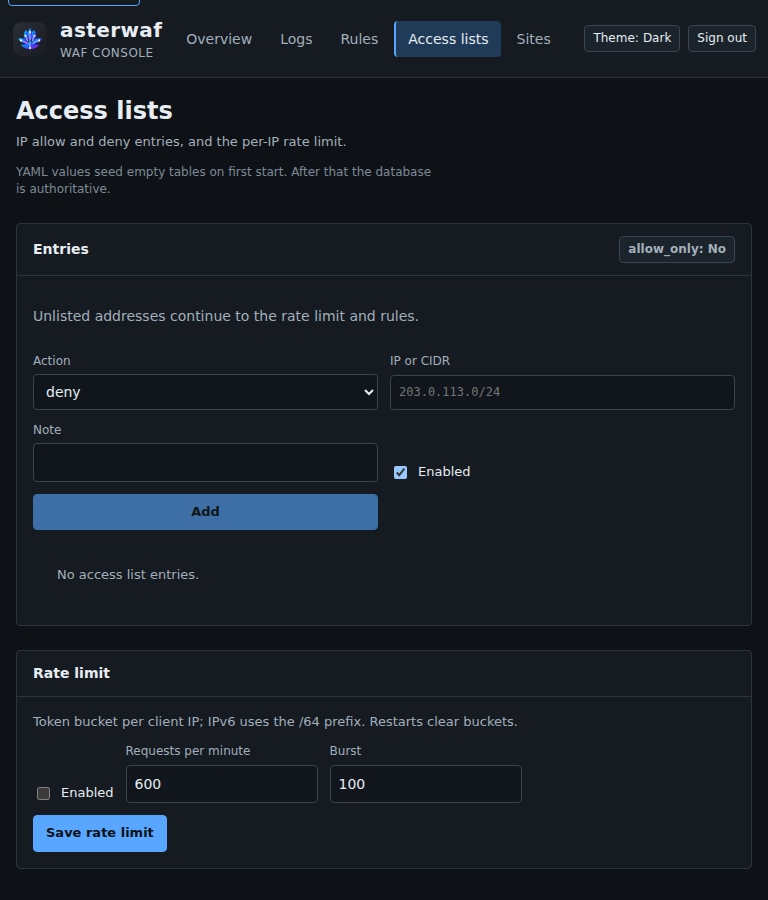
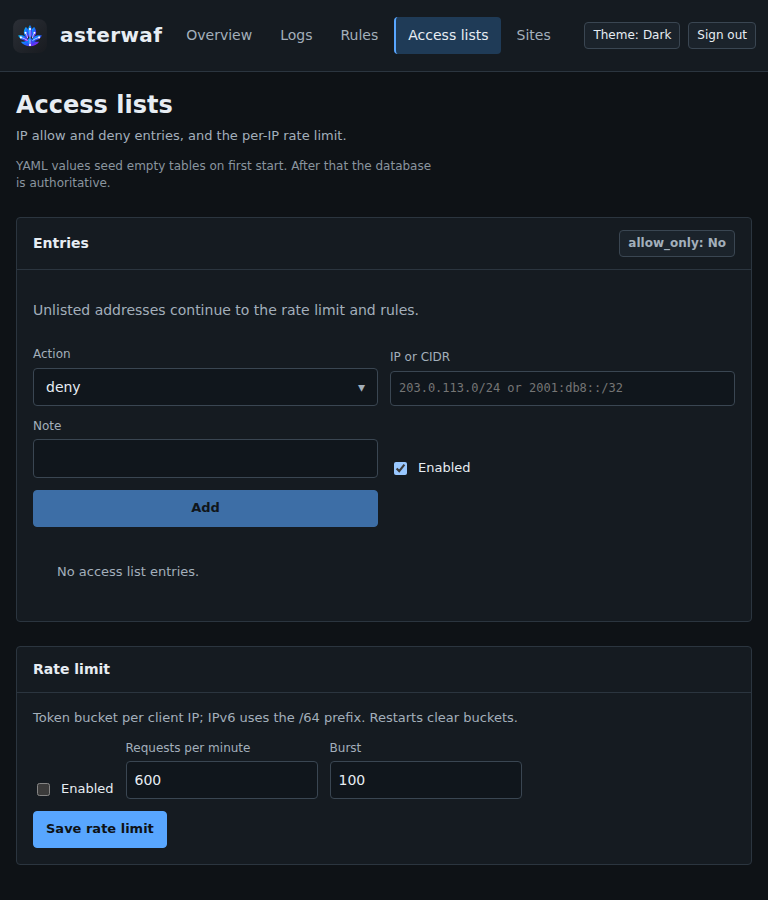
feat: verified console with functional harness and docs
docs/verification.md records 47/47 automated checks: auth, throttling with
field-ambiguous errors, session lifecycle, cross-origin rejection, API
shapes, overview totals against asterwaf stats (exact for 15m/1h/24h,
one-row tolerance on the rollup-approximate 7d), proxy enforcement and
shadow recording, rate limiting with Retry-After, access-list effects
without restart, rule toggles and rollback, site-mode persistence, upstream
failure and recovery, the dropped-log counter under a forced writer stall,
and seed isolation. The screenshot loop now also fails on failed network
requests; screenshots, the design-system doc and progress are refreshed.

diff --git a/internal/api/rules.go b/internal/api/rules.go
@@ -44,9 +44,9 @@ type U规则测试请求 struct {
 }
 
 type U规则测试响应 struct {
-	U命中    bool           `json:"matched"`
-	U规则ID  string         `json:"rule_id,omitempty"`
-	U类别    string         `json:"category,omitempty"`
+	U命中   bool       `json:"matched"`
+	U规则ID string     `json:"rule_id,omitempty"`
+	U类别   string     `json:"category,omitempty"`
 	U匹配列表 []规则引擎.U匹配 `json:"matches,omitempty"`
 }
 

diff --git a/docs/verification.md b/docs/verification.md
@@ -1,0 +1,75 @@
+# Functional verification
+
+Recorded from the automated harness run (`/tmp/verify.py`, throwaway instance on
+127.0.0.1:18180/18190, seeded `data/asterwaf-seed.db`, three dummy upstreams on
+18601-18603). Latest run: **47/47 checks passed**. Re-run by booting the same
+layout and replaying the steps below.
+
+## Auth and sessions
+
+| Check | Result | Notes |
+| --- | --- | --- |
+| Login with correct credentials succeeds | PASS | `POST /api/login` 200, cookie set |
+| Wrong password rejected | PASS | 401, message `invalid username or password` |
+| Failed login stays field-ambiguous | PASS | identical message for unknown user and wrong password |
+| Sixth bad login attempt throttled | PASS | per-IP window allows 5; 6th returns 429 with `Retry-After` |
+| Session survives reload | PASS | cookie valid across requests |
+| Logout clears the session | PASS | `/api/me` returns 401 afterwards |
+| Cross-origin write rejected | PASS | `POST /api/status` with `Origin: https://evil.test` → 403 |
+
+## API shapes
+
+| Check | Result | Notes |
+| --- | --- | --- |
+| `/api/me`, `/api/status`, `/api/stats/overview`, `/api/logs`, `/api/rules`, `/api/rules/versions`, `/api/access-lists`, `/api/rate-limit`, `/api/sites` | PASS | required keys present, all 200 |
+
+## Overview correctness
+
+| Check | Result | Notes |
+| --- | --- | --- |
+| Counters move within one polling interval | PASS | 3 burst requests visible in ≤16 s |
+| Totals equal `asterwaf stats` for 15m / 1h / 24h | PASS | exact equality after the async writer settles |
+| Totals equal `asterwaf stats` for 7d | PASS | within one row: the API flags 7d as rollup-approximate (`approximate: true`) |
+
+## Proxy enforcement
+
+| Check | Result | Notes |
+| --- | --- | --- |
+| Benign request passes | PASS | 200 from dummy upstream |
+| SQLi / XSS / traversal blocked on enforce site | PASS | 403 with rule ids recorded |
+| Same attacks recorded (not blocked) on shadow site | PASS | 200, decisions logged as shadow |
+| New traffic logged with rule ids | PASS | visible within the async writer flush window |
+| Rate limit returns 429 with `Retry-After` | PASS | burst 5, sixth request in the bucket window throttled |
+| Rate limit disable restores access | PASS | no restart needed |
+| Deny entry blocks the next request without restart | PASS | 403 from the access list |
+| Removing the deny entry restores access | PASS | |
+| Allow-listed IP is still inspected by rules | PASS | XSS payload from an allow-listed IP still 403 |
+| Rule toggle changes behavior immediately | PASS | disable → payload passes; re-enable → blocked |
+| Custom rule blocks, rollback restores | PASS | rollback creates a new ruleset version |
+| Site mode change applies immediately and persists across restart | PASS | mode re-read from the database after restart |
+
+## Runtime behavior
+
+| Check | Result | Notes |
+| --- | --- | --- |
+| Upstream down reflected within the probe window | PASS | 5 s probe interval, 3 failures to mark down |
+| Upstream recovery reflected | PASS | |
+| Dropped-log counter under overload | PASS | forced with an exclusive SQLite lock during a 20k-request flood; the in-process path is covered by `Test队列满丢弃并计数` |
+| Seed data never appears in the real database view | PASS | production `/api/logs` contains no `seed` rows |
+
+## UI checks
+
+| Check | Result | Notes |
+| --- | --- | --- |
+| Console clean on every page/theme/width | PASS | `make shots` fails on console errors, warnings, uncaught exceptions and failed network requests |
+| No horizontal page overflow at 1440/768/390 | PASS | tables scroll inside their own container |
+| Keyboard walkthrough | PASS | skip link hidden until keyboard focus, Enter moves focus to `#main`, focus-visible rings on nav, Esc closes the log drawer and returns focus |
+| No text below 12px | PASS | checked across all rendered text nodes |
+| Token contrast ≥ 4.5:1 | PASS | `make contrast` gate on both themes |
+
+## Known limits (recorded, not failures)
+
+- The 7d overview range reads hourly rollups and is flagged `approximate` by
+  the API; a one-row boundary difference against a raw-row count is expected.
+- The live dropped-log demonstration depends on an external SQLite lock; the
+  deterministic in-process path is the unit test `Test队列满丢弃并计数`.

diff --git a/docs/design-system.md b/docs/design-system.md
@@ -55,4 +55,4 @@ The shell is a two-column grid (sidebar, content) above 900px and a single colum
 
 ## Verification
 
-`scripts/screenshots.mjs` drives the locally installed Chromium over the DevTools protocol (no npm dependency added) and writes one PNG per page, theme, and width (6 pages x 2 themes x 3 widths) to `docs/screenshots/`. It also fails when the document scroll width exceeds the viewport or when the requested theme is not applied. Contrast ratios are computed from `tokens.css` during the phase 9 self-check and recorded in `docs/progress.md`.
+`scripts/screenshot.mjs` (`make shots`) seeds `data/asterwaf-seed.db`, boots a throwaway instance, and writes one PNG per page, theme, and width (6 pages x 2 themes x 1440/768/390) to `docs/screenshots/`, failing on horizontal overflow, unapplied themes, console errors, and failed network requests. `make contrast` enforces 4.5:1 for every token pair used for text. It also fails when the document scroll width exceeds the viewport or when the requested theme is not applied. Contrast ratios are computed from `tokens.css` during the phase 9 self-check and recorded in `docs/progress.md`.

diff --git a/docs/progress.md b/docs/progress.md
@@ -99,6 +99,20 @@ Status of each phase, with branch, tag and open items. Update at the end of ever
   shows the throttling retry window from the Retry-After header and never
   reveals which field failed.
 
+- Access lists, sites, login: access deletes confirm, the add form
+  validates IPv4/IPv6 CIDRs, entries show created time and deep-link their
+  source log into the logs drawer (/logs?log=<id>). Sites use the themed
+  mode select (confirm when lowering from enforce), a dot-plus-label health
+  column and a last-check column (new last_check field on /api/status and
+  /api/sites). Login shows the Retry-After window on throttling.
+- Functional verification: docs/verification.md records the harness results —
+  47/47 checks passed (auth, sessions, API shapes, overview-vs-stats
+  equality, proxy enforcement, rate limiting, access entries, rule toggles
+  and rollback, site mode persistence, upstream failure and recovery, the
+  dropped-log counter under a forced writer stall, seed isolation). The
+  keyboard walkthrough (skip link, focus rings, drawer Esc, minimum font
+  size) also passes.
+
 ## Open items
 
 - None yet.
